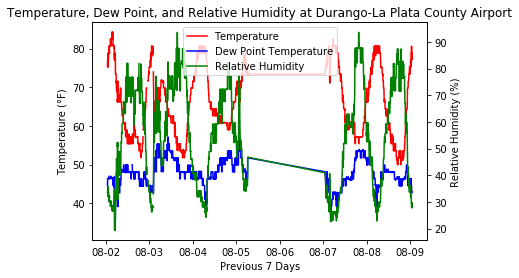
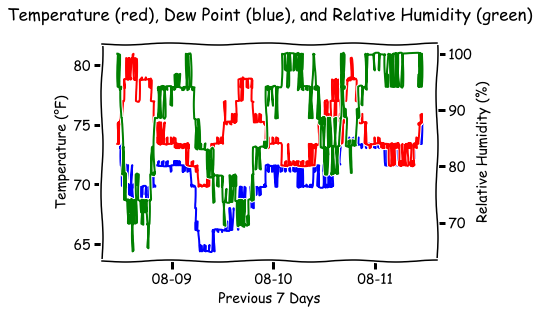
up to 7 tweet options

Changed region(s): [[0.0, 0.0, 1.0, 0.9784]]

diff --git a/rwn_overhaul.py b/rwn_overhaul.py
@@ -3,18 +3,13 @@
 # Created by Randall Vowles, API token and twitter account belong to me
 import configparser
 import random
-#import time
-#import sys
 import tweepy
-#import urllib
 import datetime
-#import numpy as np
-#import json
+from datetime import date
 import requests
 import matplotlib.pyplot as plt
 import matplotlib.dates as md
-from matplotlib.legend_handler import HandlerLine2D
-
+#plt.switch_backend('agg')
 
 config = configparser.RawConfigParser()
 config.read(r'rwnconfig.txt')
@@ -35,10 +30,10 @@ all_states = ['al', 'ak', 'az', 'ar', 'ca', 'co', 'ct', 'de',
               'nc', 'nd', 'oh', 'ok', 'or', 'pa', 'ri', 'sc',
               'sd', 'tn', 'tx', 'ut', 'vt', 'va', 'wa', 'wv',
               'wi', 'wy']
-error_log = open('./error_log.txt', 'a')
+#error_log = open('./error_log.txt', 'a')
 baseurl = 'http://api.mesowest.net/v2/stations/timeseries'
-case_n = random.choice([1, 2, 3, 4, 5])
-#case_n = 5
+#case_n = random.choice([1, 2, 3, 4, 5, 6, 7])
+case_n = 7
 #results1 = {}
 #parameters = {}
 #api_url = ''
@@ -49,37 +44,41 @@ variable = 'air_temp'
 #elif case_n == 4:
 #    variable = 'wind_gust'
 random_state = random.choice(all_states)
+#network_id = "1,2,25,65,170"
+network_id = '1,2'
 
 
 def findExtreme(results1):
     if case_n == 2:
 #        print results1
-        a = len(results1['STATION'][0]['OBSERVATIONS'][variable + '_set_1']) - 1
-        _temp = results1['STATION'][0]['OBSERVATIONS'][variable + '_set_1'][a]
-        _stid = results1['STATION'][0]['STID']
+#        a = len(results1['STATION'][0]['OBSERVATIONS'][variable + '_set_1']) - 1
+        _temp = -100
+        _stid = ""
         for i in range(len(results1['STATION'])):
-            a = len(results1['STATION'][i]['OBSERVATIONS'][variable + '_set_1']) - 1
-            if results1['STATION'][i]['OBSERVATIONS'][variable + '_set_1'][a] > _temp and results1['STATION'][i]['OBSERVATIONS'][variable + '_set_1'][a] is not None:
-                _temp = results1['STATION'][i]['OBSERVATIONS'][variable + '_set_1'][a]
+            b = len(results1['STATION'][i]['OBSERVATIONS'][variable + '_set_1']) - 1
+            if results1['STATION'][i]['OBSERVATIONS'][variable + '_set_1'][b] > _temp and results1['STATION'][i]['OBSERVATIONS'][variable + '_set_1'][b] is not None:
+                _temp = results1['STATION'][i]['OBSERVATIONS'][variable + '_set_1'][b]
                 _stid = results1['STATION'][i]['STID']
+            else:
+                continue
         max_temp = _temp
         stid_max = _stid
 #        print stid_max, max_temp
         return [stid_max, max_temp]
     elif case_n == 3:
-        a = len(results1['STATION'][0]['OBSERVATIONS'][variable + '_set_1']) - 1
-        _temp = results1['STATION'][0]['OBSERVATIONS'][variable + '_set_1'][0]
-        _stid = results1['STATION'][0]['STID']
+#        print results1
+#        a = len(results1['STATION'][0]['OBSERVATIONS'][variable + '_set_1']) - 1
+        _temp = 100
+        _stid = ""
         for i in range(len(results1['STATION'])):
-            a = len(results1['STATION'][i]['OBSERVATIONS'][variable + '_set_1']) - 1
-            _temp = results1['STATION'][i]['OBSERVATIONS'][variable + '_set_1'][a]
-            _stid = results1['STATION'][i]['STID']
-            if results1['STATION'][i]['OBSERVATIONS'][variable + '_set_1'][a] < _temp and results1['STATION'][i]['OBSERVATIONS'][variable + '_set_1'][a] is not None:
-                results1['STATION'][i]['OBSERVATIONS'][variable + '_set_1'][a] = _temp
-                results1['STATION'][i]['STID'] = _stid
+            b = len(results1['STATION'][i]['OBSERVATIONS'][variable + '_set_1']) - 1
+            if results1['STATION'][i]['OBSERVATIONS'][variable + '_set_1'][b] < _temp and results1['STATION'][i]['OBSERVATIONS'][variable + '_set_1'][b] is not None:
+                _temp = results1['STATION'][i]['OBSERVATIONS'][variable + '_set_1'][b]
+                _stid = results1['STATION'][i]['STID']
+            else:
+                continue
         min_temp = _temp
         stid_min = _stid
-#        print stid_min, min_temp
         return [stid_min, min_temp]
 
 
@@ -91,7 +90,6 @@ def apiCall(PARAMETERS):
 
 
 def random_STID():
-    network_id = "1"
     params = {'token': api_token, 'status': 'active', 'qc': 'on',
               'recent': '65', 'units': 'english', 'network': network_id,
               'vars': variable}
@@ -109,36 +107,38 @@ if case_n == 1:
 elif case_n == 2:
     parameters = {'token': api_token, 'status': 'active', 'qc': 'on', 'qc_remove_data': 'on', 'qc_checks': 'synopticlabs',
                   'recent': '65', 'units': 'english', 'state': random_state,
-                  'vars': 'air_temp', 'network': '1'}
+                  'vars': 'air_temp', 'network': network_id}
 elif case_n == 3:
     parameters = {'token': api_token, 'status': 'active', 'qc': 'on', 'qc_remove_data': 'on', 'qc_checks': 'synopticlabs',
                   'recent': '65', 'units': 'english', 'state': random_state,
-                  'vars': 'air_temp', 'network': '1'}
+                  'vars': 'air_temp', 'network': network_id}
 elif case_n == 4:
     parameters = {'token': api_token, 'status': 'active', 'qc': 'on', 'qc_remove_data': 'on', 'qc_checks': 'synopticlabs',
-                  'recent': '43200', 'units': 'english', 'stid': random_stid,
-                  'vars': 'air_temp', 'network': '1'}
+                  'recent': '20160', 'units': 'english', 'stid': random_stid,
+                  'vars': 'air_temp'}
 elif case_n == 5:
     parameters = {'token': api_token, 'status': 'active', 'qc': 'on', 'qc_remove_data': 'on', 'qc_checks': 'synopticlabs',
-                  'recent': '10080', 'units': 'english', 'stid': random_stid,
-                  'vars': 'air_temp,relative_humidity,dew_point_temperature', 'network': '1'}
+                  'recent': '4320', 'units': 'english', 'stid': random_stid,
+                  'vars': 'air_temp,relative_humidity,dew_point_temperature'}
+
 
 def create30DayPlot(results):
     x = [md.date2num(datetime.datetime.strptime(val, '%Y-%m-%dT%H:%M:%SZ')) for val in results['STATION'][0]['OBSERVATIONS']['date_time']]
 #    print results
     hour = md.HourLocator(interval=24)
     fmt = md.DateFormatter('%m-%d')
-    fig, ax = plt.subplots()
-    ax.plot(x, (results['STATION'][0]['OBSERVATIONS'][variable + '_set_1']), 'r-')
-    plt.title('Temperatures at ' + results['STATION'][0]['NAME'])
-    plt.ylabel('Temperature (' + u'\N{DEGREE SIGN}' + 'F)')
-    plt.xlabel('Previous 30 Days')
-    ax.xaxis.set_major_locator(hour)
-    ax.xaxis.set_major_formatter(fmt)
-    fig.autofmt_xdate(rotation=90)
-    plt.legend(loc=0)
-    plt.savefig('30_day_image.png', bbox_inches='tight')
-#    plt.show()
+    with plt.xkcd():
+        fig, ax = plt.subplots()
+        ax.plot(x, (results['STATION'][0]['OBSERVATIONS'][variable + '_set_1']), 'r')
+        plt.title('Temperatures at ' + results['STATION'][0]['NAME'], y=1.08)
+        plt.ylabel('Temperature (' + u'\N{DEGREE SIGN}' + 'F)')
+        plt.xlabel('Previous 14 Days')
+        ax.xaxis.set_major_locator(hour)
+        ax.xaxis.set_major_formatter(fmt)
+        fig.autofmt_xdate(rotation=90)
+        plt.legend(loc=0)
+        plt.savefig('14_day_image.png', bbox_inches='tight')
+        #    plt.show()
 
 
 def create7DayPlot(results):
@@ -146,20 +146,40 @@ def create7DayPlot(results):
 #    print results
     hour = md.HourLocator(interval=24)
     fmt = md.DateFormatter('%m-%d')
-    fig, ax1 = plt.subplots()
-    ax2 = ax1.twinx()
-    line1, = ax1.plot(x, (results['STATION'][0]['OBSERVATIONS']['air_temp_set_1']), 'r-', label='Temperature')
-    line2, = ax1.plot(x, (results['STATION'][0]['OBSERVATIONS']['dew_point_temperature_set_1d']), 'b-', label='Dew Point Temperature')
-    line3, = ax2.plot(x, (results['STATION'][0]['OBSERVATIONS']['relative_humidity_set_1']), 'g-', label='Relative Humidity')
-    ax1.set_ylabel('Temperature (' + u'\N{DEGREE SIGN}' + 'F)')
-    ax1.set_xlabel('Previous 7 Days')
-    ax1.xaxis.set_major_locator(hour)
-    ax1.xaxis.set_major_formatter(fmt)
-    ax2.set_ylabel('Relative Humidity (%)')
-    plt.title('Temperature, Dew Point, and Relative Humidity at ' + results['STATION'][0]['NAME'])
-    plt.legend(handles=[line1, line2, line3])
-    plt.savefig('7_day_image.png', bbox_inches='tight')
-#    plt.show()
+    with plt.xkcd():
+        ax1 = plt.subplot()
+        #    lines = [results['STATION'][0]['OBSERVATIONS']['air_temp_set_1'],
+                      #             results['STATION'][0]['OBSERVATIONS']['dew_point_temperature_set_1d'],
+                      #             results['STATION'][0]['OBSERVATIONS']['relative_humidity_set_1']]
+        #    colors = ['r-', 'b-', 'g-']
+        line1 = ax1.plot(x, (results['STATION'][0]['OBSERVATIONS']['air_temp_set_1']), 'r')
+        line2 = ax1.plot(x, (results['STATION'][0]['OBSERVATIONS']['dew_point_temperature_set_1d']), 'b')
+        ax2 = ax1.twinx()
+        line3 = ax2.plot(x, (results['STATION'][0]['OBSERVATIONS']['relative_humidity_set_1']), 'g')
+        ax1.set_ylabel('Temperature (' + u'\N{DEGREE SIGN}' + 'F)')
+        ax1.set_xlabel('Previous 3 Days')
+        ax1.xaxis.set_major_locator(hour)
+        ax1.xaxis.set_major_formatter(fmt)
+        ax2.set_ylabel('Relative Humidity (%)')
+        plt.title('Temperature (red), Dew Point (blue), and Relative Humidity (green)', y=1.08)
+        #    plt.legend(handles=[line1, line2, line3])
+        plt.savefig('3_day_image.png', bbox_inches='tight')
+        #    plt.show()
+
+
+def subtract_a_year(d):
+    try:
+        return d.replace(year = d.year - 1)
+    except ValueError:
+        return d - (date(d.year - 1, 1, 1) + date(d.year, 1, 1))
+
+
+def historicalDates():
+    now_time = datetime.datetime.utcnow()
+    end_time = (now_time).strftime('%Y%m%d%H%M')
+    start_time = (subtract_a_year(now_time)).strftime('%Y%m%d%H%M')
+#    print [start_time, end_time]
+    return [start_time, end_time]
 
 
 def findCity(stid):
@@ -181,12 +201,12 @@ def sendToTwitter():
     loc_st = random_state
 #    stid = result_tw['STATION'][0]['STID']
     start_time = datetime.date.today().strftime('%Y%m%d%H%M')
-    end_time = (datetime.datetime.now()).strftime('%Y%m%d%H%M')
-
+    end_time = (datetime.datetime.utcnow()).strftime('%Y%m%d%H%M')
 
     if case_n == 1:
         results_1 = apiCall(parameters)
         stid = results_1['STATION'][0]['STID']
+        state_1 = results_1['STATION'][0]['STATE']
         a = len(results_1['STATION'][0]['OBSERVATIONS'][variable + '_set_1']) - 1
         tw_ob = str(results_1['STATION'][0]['OBSERVATIONS'][variable + '_set_1'][a])
 #        print results_1, stid, tw_ob
@@ -195,7 +215,7 @@ def sendToTwitter():
 #                              bitlytoken + '&longUrl=' + long_url + '%2F&format=txt')
 #        linkurl = str(BITLYR.text)
         hashtag = ' #' + (results_1['STATION'][0]['STATE']).lower() + 'wx '
-        tweet = 'The current temperature at ' + findCity(stid) + ', ' + loc_st.upper() + ' is '\
+        tweet = 'The current temperature at ' + (stid) + ', ' + state_1 + ' is '\
                  + tw_ob + u'\N{DEGREE SIGN}' + 'F ' + hashtag + long_url
 #        print tweet
         api.update_status(tweet)
@@ -233,10 +253,10 @@ def sendToTwitter():
         long_url = "https://synopticlabs.org/demos/tabtable/?stid=" + stid + "&start=" + start_time + "&end=" + end_time
         hashtag = ' #' + (results_4['STATION'][0]['STATE']).lower() + 'wx '
         create30DayPlot(results_4)
-        tweet = 'Check out the temperature over the past month at ' + findCity(stid) + \
+        tweet = 'Check out the temperature over the past fortnight at ' + (stid) + \
                 hashtag + long_url
 #        print tweet
-        api.update_with_media('30_day_image.png', tweet)
+        api.update_with_media('14_day_image.png', tweet)
 
     elif case_n == 5:
         results_5 = apiCall(parameters)
@@ -245,11 +265,58 @@ def sendToTwitter():
         long_url = "https://synopticlabs.org/demos/tabtable/?stid=" + stid + "&start=" + start_time + "&end=" + end_time
         hashtag = ' #' + (results_5['STATION'][0]['STATE']).lower() + 'wx '
         create7DayPlot(results_5)
-        tweet = 'Check out the temperature and moisture over the past week at ' + findCity(stid) + \
+        tweet = 'Check out the temperature and moisture over the past three days at ' + (stid) + \
                 hashtag + long_url
 #        print tweet
-        api.update_with_media('7_day_image.png', tweet)
+        api.update_with_media('3_day_image.png', tweet)
+
+    elif case_n == 6:
+        stid = random_stid
+        times = historicalDates()
+        _start = times[0]
+        _end = times[1]
+        r1 = requests.get(baseurl, params={"stid": stid, "start": _start, "end": _end, "vars": variable, "token": api_token, "units": "english"})
+        r2 = r1.json()
+        a = len(r2['STATION'][0]['OBSERVATIONS'][variable + '_set_1']) - 1
+        old_ob = str(r2['STATION'][0]['OBSERVATIONS'][variable + '_set_1'][0])
+        new_ob = str(r2['STATION'][0]['OBSERVATIONS'][variable + '_set_1'][a])
+#        print old_ob, new_ob
+        long_url = "https://synopticlabs.org/demos/tabtable/?stid=" + stid + "&start=" + start_time + "&end=" + end_time
+        hashtag = ' #' + (r2['STATION'][0]['STATE']).lower() + 'wx '
+        tweet = 'Today it is ' + new_ob + u'\N{DEGREE SIGN}' + 'F at ' + stid + ', 1 year ago today it was ' + \
+                old_ob + u'\N{DEGREE SIGN}' + 'F ' + hashtag + long_url
+#        print tweet
+        api.update_status(tweet)
+
+    elif case_n == 7:
+        stid = random_stid
+        times = historicalDates()
+        _start = times[0]
+        _end = times[1]
+        r1 = requests.get(baseurl, params={"stid": stid, "start": _start, "end": _end, "vars": variable, "token": api_token, "units": "english"})
+        r2 = r1.json()
+        _highTemp = -100
+        _lowTemp = 100
+        for i in range(len(r2['STATION'][0]['OBSERVATIONS'][variable + '_set_1'])):
+            if r2['STATION'][0]['OBSERVATIONS'][variable + '_set_1'][i] > _highTemp and r2['STATION'][0]['OBSERVATIONS'][variable + '_set_1'][i] is not None:
+                _highTemp = r2['STATION'][0]['OBSERVATIONS'][variable + '_set_1'][i]
+                _hD = r2['STATION'][0]['OBSERVATIONS']['date_time'][i]
+            else:
+                continue
+        for i in range(len(r2['STATION'][0]['OBSERVATIONS'][variable + '_set_1'])):
+            if r2['STATION'][0]['OBSERVATIONS'][variable + '_set_1'][i] < _lowTemp and r2['STATION'][0]['OBSERVATIONS'][variable + '_set_1'][i] is not None:
+                _lowTemp = r2['STATION'][0]['OBSERVATIONS'][variable + '_set_1'][i]
+                _lD = r2['STATION'][0]['OBSERVATIONS']['date_time'][i]
+            else:
+                continue
+
+        _highDate = (datetime.datetime.strptime(_hD, '%Y-%m-%dT%H:%M:%SZ')).strftime('%Y-%m-%d')
+        _lowDate = (datetime.datetime.strptime(_lD, '%Y-%m-%dT%H:%M:%SZ')).strftime('%Y-%m-%d')
+        long_url = "https://synopticlabs.org/demos/tabtable/?stid=" + stid + "&start=" + start_time + "&end=" + end_time
+        hashtag = ' #' + (r2['STATION'][0]['STATE']).lower() + 'wx '
+        tweet = 'Over the past year at ' + r2['STATION'][0]['STID'] + ', the highest temp was ' + str(_highTemp) + u'\N{DEGREE SIGN}' +\
+                'F on ' + _highDate + ' and the lowest temp was ' + str(_lowTemp) + u'\N{DEGREE SIGN}' + 'F on ' + _lowDate + hashtag + long_url
+#        print tweet
+        api.update_status(tweet)
 
 sendToTwitter()
-
-
